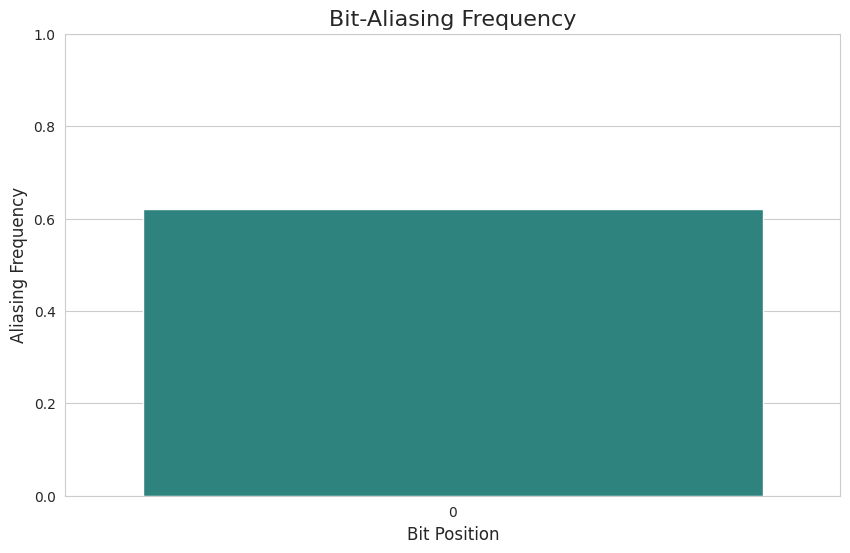
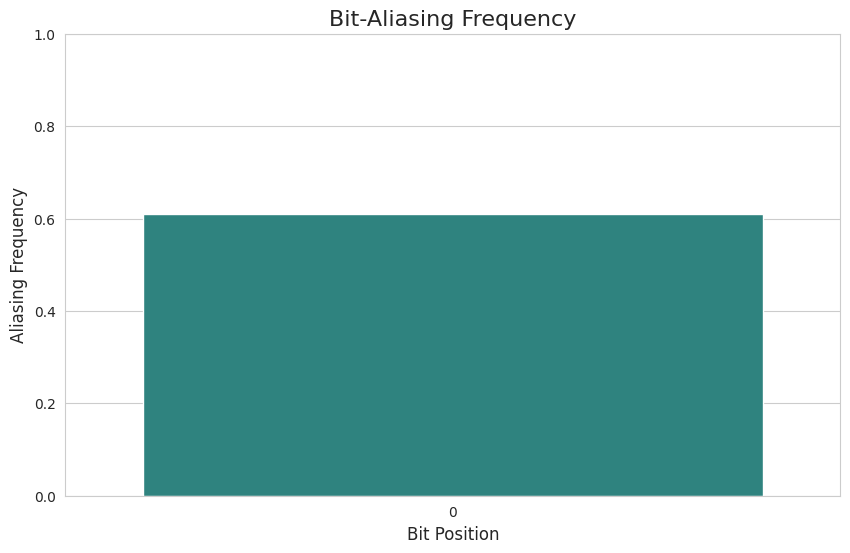
7-23-analysis

Changed region(s): [[0.1529, 0.3689, 0.9176, 0.3996]]

diff --git a/main.py b/main.py
@@ -4,7 +4,7 @@ import json
 import time
 from ppet.puf.puf_model import XORArbiterPUF, ArbiterPUF
 from ppet.analysis.metrics import calculate_uniqueness, calculate_reliability, calculate_bit_aliasing, calculate_attack_accuracy
-from ppet.visualization.plots import plot_uniqueness_histogram, plot_reliability_line_graph, plot_bit_aliasing_bar_graph
+from ppet.visualization.plots import plot_uniqueness_histogram, plot_reliability_line_graph, plot_bit_aliasing_bar_graph, plot_bit_aliasing_distribution
 from ppet.utils.config_manager import load_config
 from ppet.attack.attack_model import LogisticRegressionAttack
 
@@ -105,11 +105,19 @@ def run_analysis(config):
     print(f"Bit-Aliasing Results: {bit_aliasing_results}")
     
     if output_settings.get('save_figures', False):
-        save_path = os.path.join(figures_dir, "bit_aliasing_bar_graph.png")
-        plot_bit_aliasing_bar_graph(bit_aliasing_results, save_path=save_path)
+        save_path_bar = os.path.join(figures_dir, "bit_aliasing_bar_graph.png")
+        # For the bar graph, we need the mean aliasing, so we calculate it here.
+        mean_aliasing = {k: np.mean(v) for k, v in bit_aliasing_results.items()}
+        plot_bit_aliasing_bar_graph(mean_aliasing, save_path=save_path_bar)
         print("Bit-Aliasing bar graph saved.")
+
+        save_path_dist = os.path.join(figures_dir, "bit_aliasing_distribution.png")
+        plot_bit_aliasing_distribution(bit_aliasing_results, save_path=save_path_dist)
+        print("Bit-Aliasing distribution plot saved.")
     else:
-        plot_bit_aliasing_bar_graph(bit_aliasing_results)
+        mean_aliasing = {k: np.mean(v) for k, v in bit_aliasing_results.items()}
+        plot_bit_aliasing_bar_graph(mean_aliasing)
+        plot_bit_aliasing_distribution(bit_aliasing_results)
 
     # 5. Attack Simulation
     if config.get('attack', {}).get('enabled', False):

diff --git a/ppet/visualization/plots.py b/ppet/visualization/plots.py
@@ -44,6 +44,38 @@ def plot_bit_aliasing_bar_graph(bit_aliasing_data, title="Bit-Aliasing Frequency
     else:
         plt.show()
 
+def plot_bit_aliasing_distribution(bit_aliasing_data, title="Bit-Aliasing Distribution", save_path=None, save_format="png"):
+    """
+    Plots a boxplot of the bit-aliasing distribution to show bias.
+    bit_aliasing_data is expected to be a dictionary like {bit_position: [aliasing_frequencies]}.
+    """
+    if not bit_aliasing_data:
+        print("No bit aliasing data to plot.")
+        return
+
+    plt.figure(figsize=(10, 6))
+    sns.set_style("whitegrid")
+    
+    # The data is expected to be a list of frequencies for each bit position
+    # For a single-bit response PUF, we'll have one boxplot.
+    all_frequencies = []
+    labels = []
+    for pos, freqs in bit_aliasing_data.items():
+        all_frequencies.extend(freqs)
+        labels.extend([str(pos)] * len(freqs))
+
+    sns.boxplot(x=labels, y=all_frequencies, palette="pastel")
+    plt.title(title, fontsize=16)
+    plt.xlabel("Bit Position", fontsize=12)
+    plt.ylabel("Aliasing Frequency", fontsize=12)
+    plt.ylim(0, 1.05)
+    
+    if save_path:
+        plt.savefig(f"{save_path}.{save_format}", format=save_format, bbox_inches='tight')
+        plt.close()
+    else:
+        plt.show()
+
 def plot_reliability_line_graph(noise_levels, reliability_scores, title="Reliability vs. Noise Level", save_path=None, save_format="png"):
     """
     Plots a line graph of reliability scores against increasing noise levels using seaborn.

diff --git a/ppet/analysis/metrics.py b/ppet/analysis/metrics.py
@@ -136,8 +136,8 @@ def calculate_bit_aliasing(puf_instances, num_challenges, challenge_length):
         else:
             bit_aliasing_data[0].append(0.0) # No PUFs
 
-    # Return average aliasing frequency for the single bit position
-    return {0: np.mean(bit_aliasing_data[0])}
+    # Return the full distribution of aliasing frequencies for each bit position
+    return bit_aliasing_data
 
 def calculate_attack_accuracy(attack, puf, num_train_crps, num_test_crps):
     """
